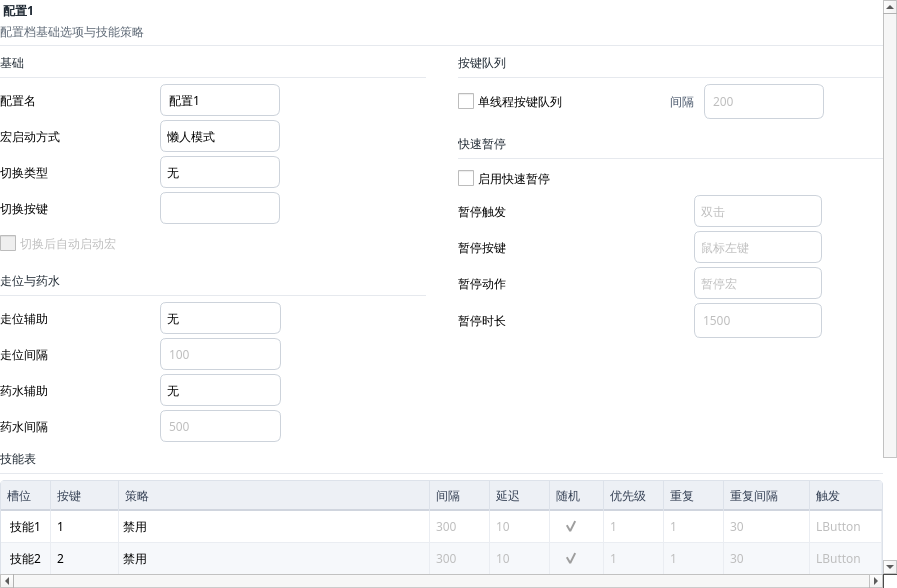
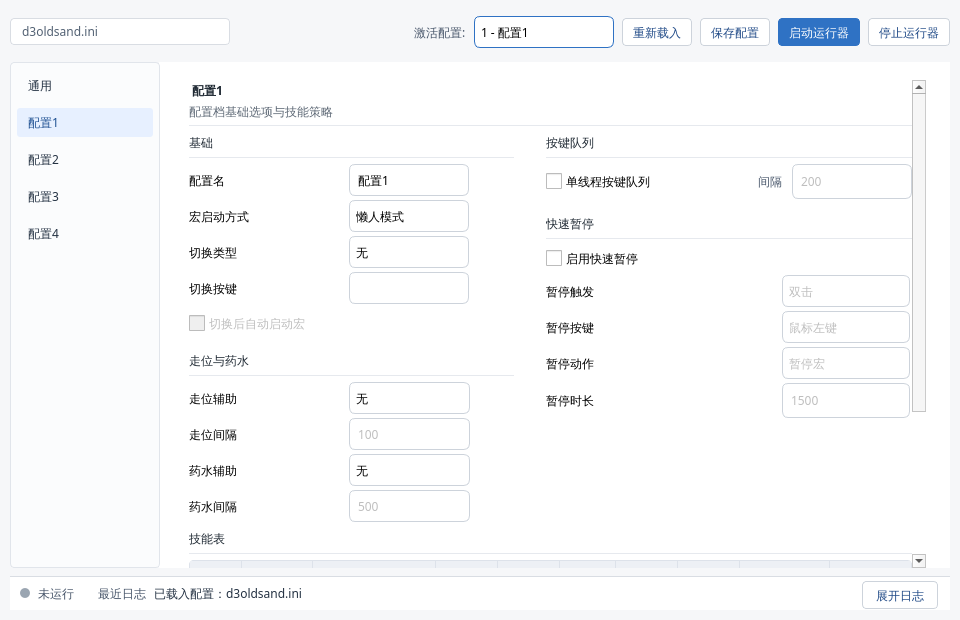
Proportional skill columns + toolbar active profile selector
- Add _SkillColumnDistributor: QObject event filter on skill table viewport
  that distributes all 10 columns proportionally by weight on every resize,
  eliminating the blank space at the right of the table
- Add toolbar profile combo (140px) between path label and reload button;
  populated with profile names and current active index from activatedprofile
- Two-way sync: toolbar combo ↔ general_widgets["activatedprofile"] via
  _sync_toolbar_profile_combo() called at end of reload_config
  Uses guard flag _toolbar_profile_synced to avoid spurious warnings on first
  load (no prior signal to disconnect)
- Add QLabel 'toolbarLabel' QSS style for the 激活配置: label
- Import QEvent and QObject from PySide6.QtCore

diff --git a/d3keyhelper_linux_gui.py b/d3keyhelper_linux_gui.py
@@ -7,7 +7,7 @@ import subprocess
 import sys
 from pathlib import Path
 
-from PySide6.QtCore import QProcess, QTimer, Qt
+from PySide6.QtCore import QEvent, QObject, QProcess, QTimer, Qt
 from PySide6.QtGui import QIcon
 from PySide6.QtWidgets import (
     QAbstractSpinBox,
@@ -223,6 +223,10 @@ QFrame#contentPanel {
 }
 QFrame#toolbarFrame {
     background: transparent;
+}
+QLabel#toolbarLabel {
+    color: #48566a;
+    font-size: 12px;
 }
 QLabel#sectionHint {
     color: #5d6978;
@@ -963,6 +967,37 @@ def build_runner_command(config_path: Path, profile: str) -> list[str]:
     return command
 
 
+# Column weight ratios (pixels at baseline window size — distributed proportionally)
+_SKILL_COL_WEIGHTS = [50, 68, 118, 60, 60, 54, 60, 60, 86, 72]
+_SKILL_COL_TOTAL = sum(_SKILL_COL_WEIGHTS)
+
+
+class _SkillColumnDistributor(QObject):
+    """Proportionally fills all skill table columns to the viewport width on resize."""
+
+    def __init__(self, table: QTableWidget) -> None:
+        super().__init__(table.viewport())
+        self._table = table
+        table.viewport().installEventFilter(self)
+        self._distribute()
+
+    def eventFilter(self, obj: QObject, event: QEvent) -> bool:
+        if event.type() == QEvent.Type.Resize:
+            self._distribute()
+        return False
+
+    def _distribute(self) -> None:
+        avail = self._table.viewport().width()
+        if avail < 200:
+            return
+        remainder = avail
+        for i, w in enumerate(_SKILL_COL_WEIGHTS[:-1]):
+            col_w = max(40, int(avail * w / _SKILL_COL_TOTAL))
+            self._table.setColumnWidth(i, col_w)
+            remainder -= col_w
+        self._table.setColumnWidth(len(_SKILL_COL_WEIGHTS) - 1, max(40, remainder))
+
+
 class ProfileTab(QWidget):
     def __init__(self, section_name: str, section: configparser.SectionProxy) -> None:
         super().__init__()
@@ -1105,6 +1140,7 @@ class ProfileTab(QWidget):
         for row_index in range(6):
             self.skill_table.setRowHeight(row_index, SKILL_TABLE_ROW_HEIGHT)
         self.skill_table.setFixedHeight(SKILL_TABLE_HEADER_HEIGHT + SKILL_TABLE_ROW_HEIGHT * 6 + 4)
+        self._col_distributor = _SkillColumnDistributor(self.skill_table)
 
         skill_widgets = []
         for index in range(1, 7):
@@ -1372,6 +1408,13 @@ class MainWindow(QMainWindow):
         stop_button.clicked.connect(self.stop_runner)
         toolbar.addWidget(self.path_label)
         toolbar.addStretch(1)
+        profile_label = QLabel(tr("激活配置:", "Profile:"))
+        profile_label.setObjectName("toolbarLabel")
+        self.toolbar_profile_combo = QComboBox()
+        self.toolbar_profile_combo.setFixedWidth(140)
+        self.toolbar_profile_combo.setToolTip(tr("当前激活配置", "Active profile"))
+        toolbar.addWidget(profile_label)
+        toolbar.addWidget(self.toolbar_profile_combo)
         toolbar.addWidget(reload_button)
         toolbar.addWidget(save_button)
         toolbar.addWidget(start_button)
@@ -1482,6 +1525,44 @@ class MainWindow(QMainWindow):
         self._connect_config_change_watchers()
         self._suspend_config_watch = False
         self._update_runtime_status_widgets()
+        self._sync_toolbar_profile_combo(profile_names)
+
+    def _sync_toolbar_profile_combo(self, profile_names: list[str]) -> None:
+        """Populate toolbar profile combo and wire it to the General tab's activatedprofile widget."""
+        general_combo = self.general_widgets.get("activatedprofile")
+        combo = self.toolbar_profile_combo
+        combo.blockSignals(True)
+        combo.clear()
+        count = max(len(profile_names), 1)
+        for index in range(1, count + 1):
+            name = profile_names[index - 1] if index <= len(profile_names) else f"配置{index}"
+            combo.addItem(f"{index} - {name}", index)
+        if general_combo is not None:
+            set_combo_value(combo, combo_value(general_combo))
+        combo.blockSignals(False)
+        if general_combo is not None:
+            if getattr(self, "_toolbar_profile_synced", False):
+                try:
+                    combo.currentIndexChanged.disconnect()
+                except Exception:
+                    pass
+                try:
+                    general_combo.currentIndexChanged.disconnect(self._on_general_profile_changed)
+                except Exception:
+                    pass
+            self._toolbar_profile_synced = True
+            combo.currentIndexChanged.connect(
+                lambda _: set_combo_value(general_combo, combo_value(combo))
+            )
+            general_combo.currentIndexChanged.connect(self._on_general_profile_changed)
+
+    def _on_general_profile_changed(self) -> None:
+        general_combo = self.general_widgets.get("activatedprofile")
+        if general_combo is None:
+            return
+        self.toolbar_profile_combo.blockSignals(True)
+        set_combo_value(self.toolbar_profile_combo, combo_value(general_combo))
+        self.toolbar_profile_combo.blockSignals(False)
 
     def _build_general_tab(self, section: configparser.SectionProxy, profile_names: list[str]) -> QWidget:
         container = QWidget()
